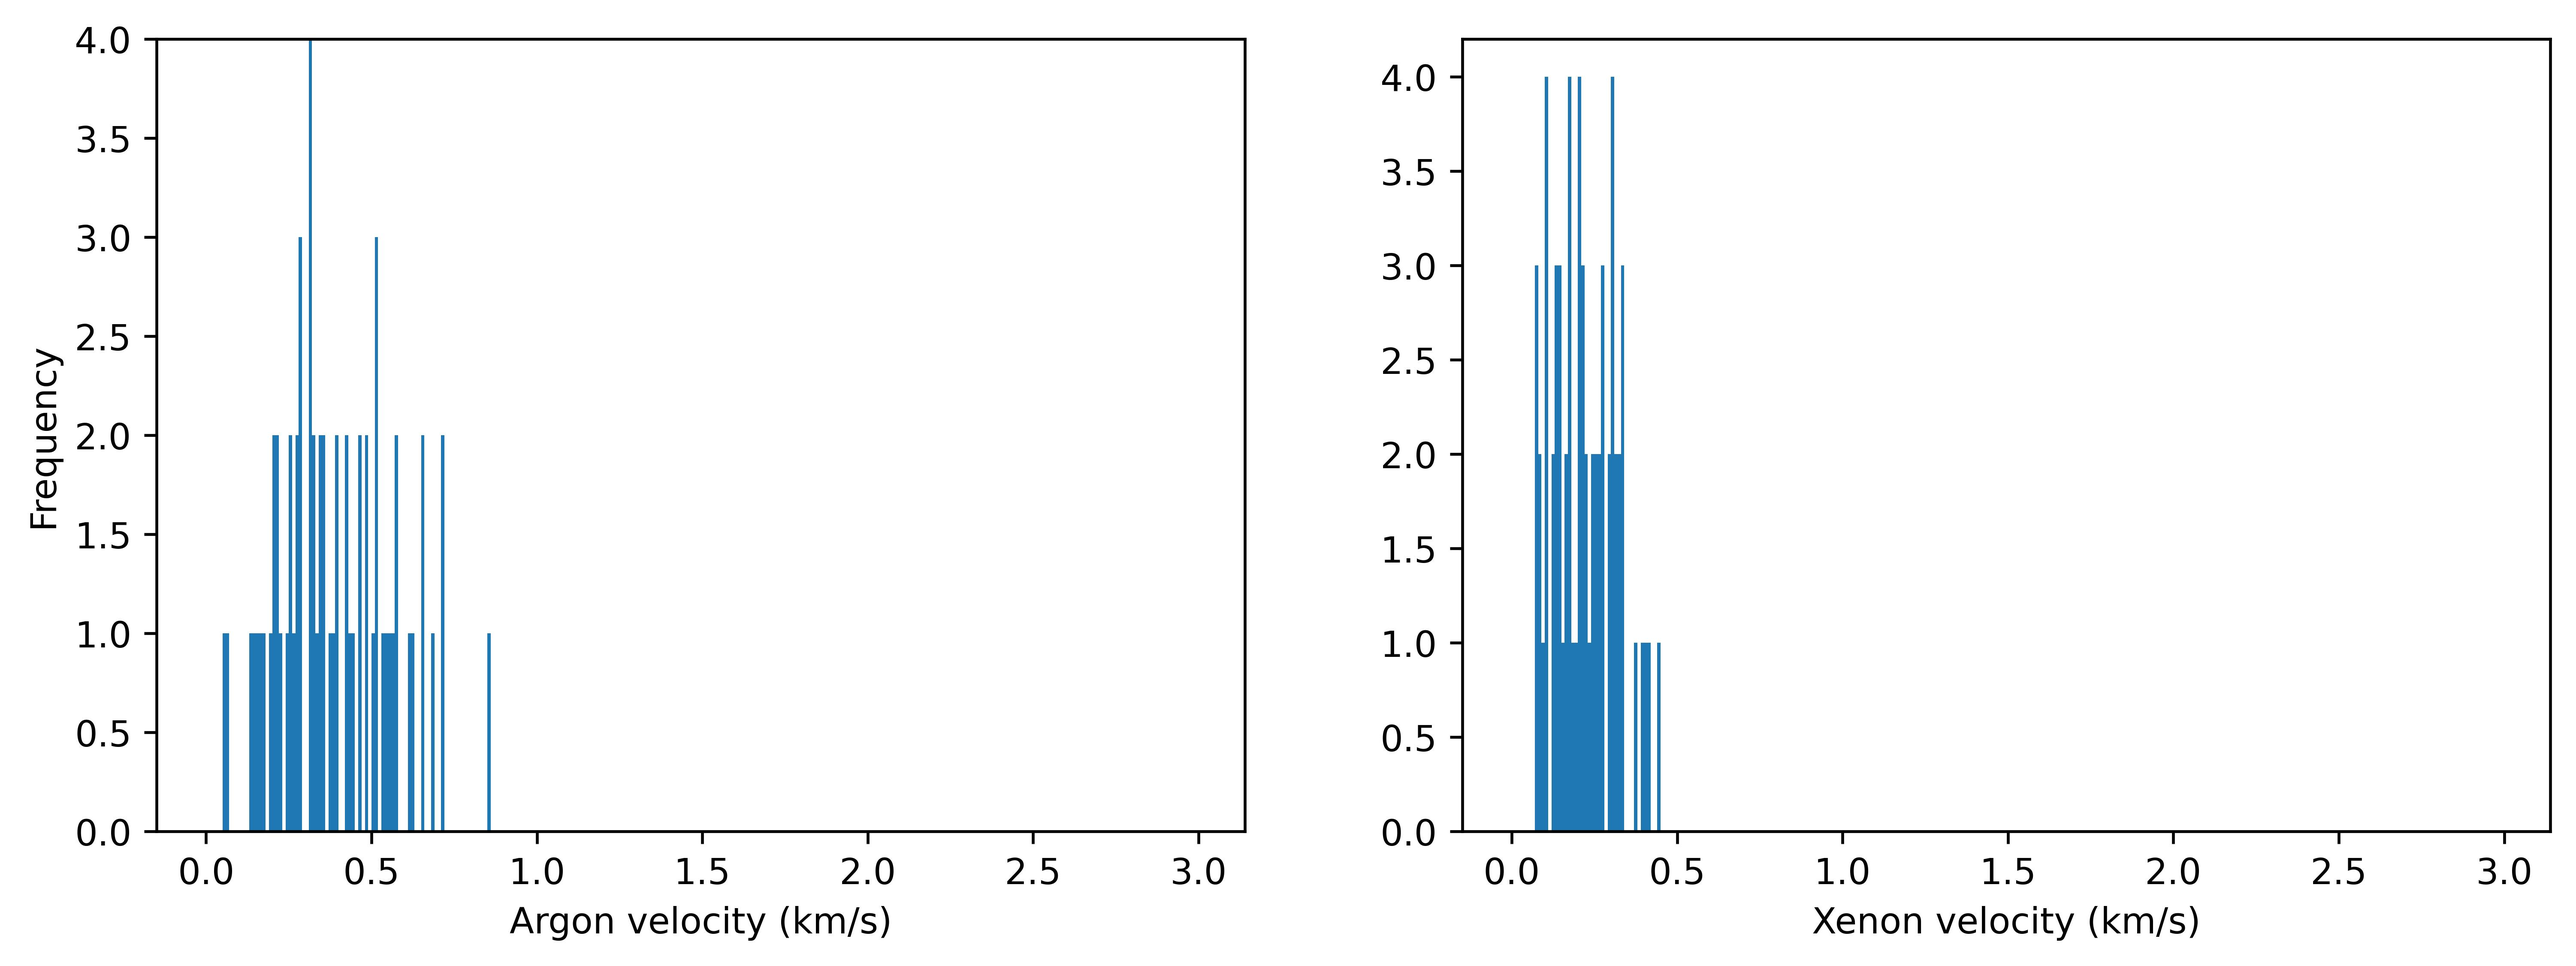
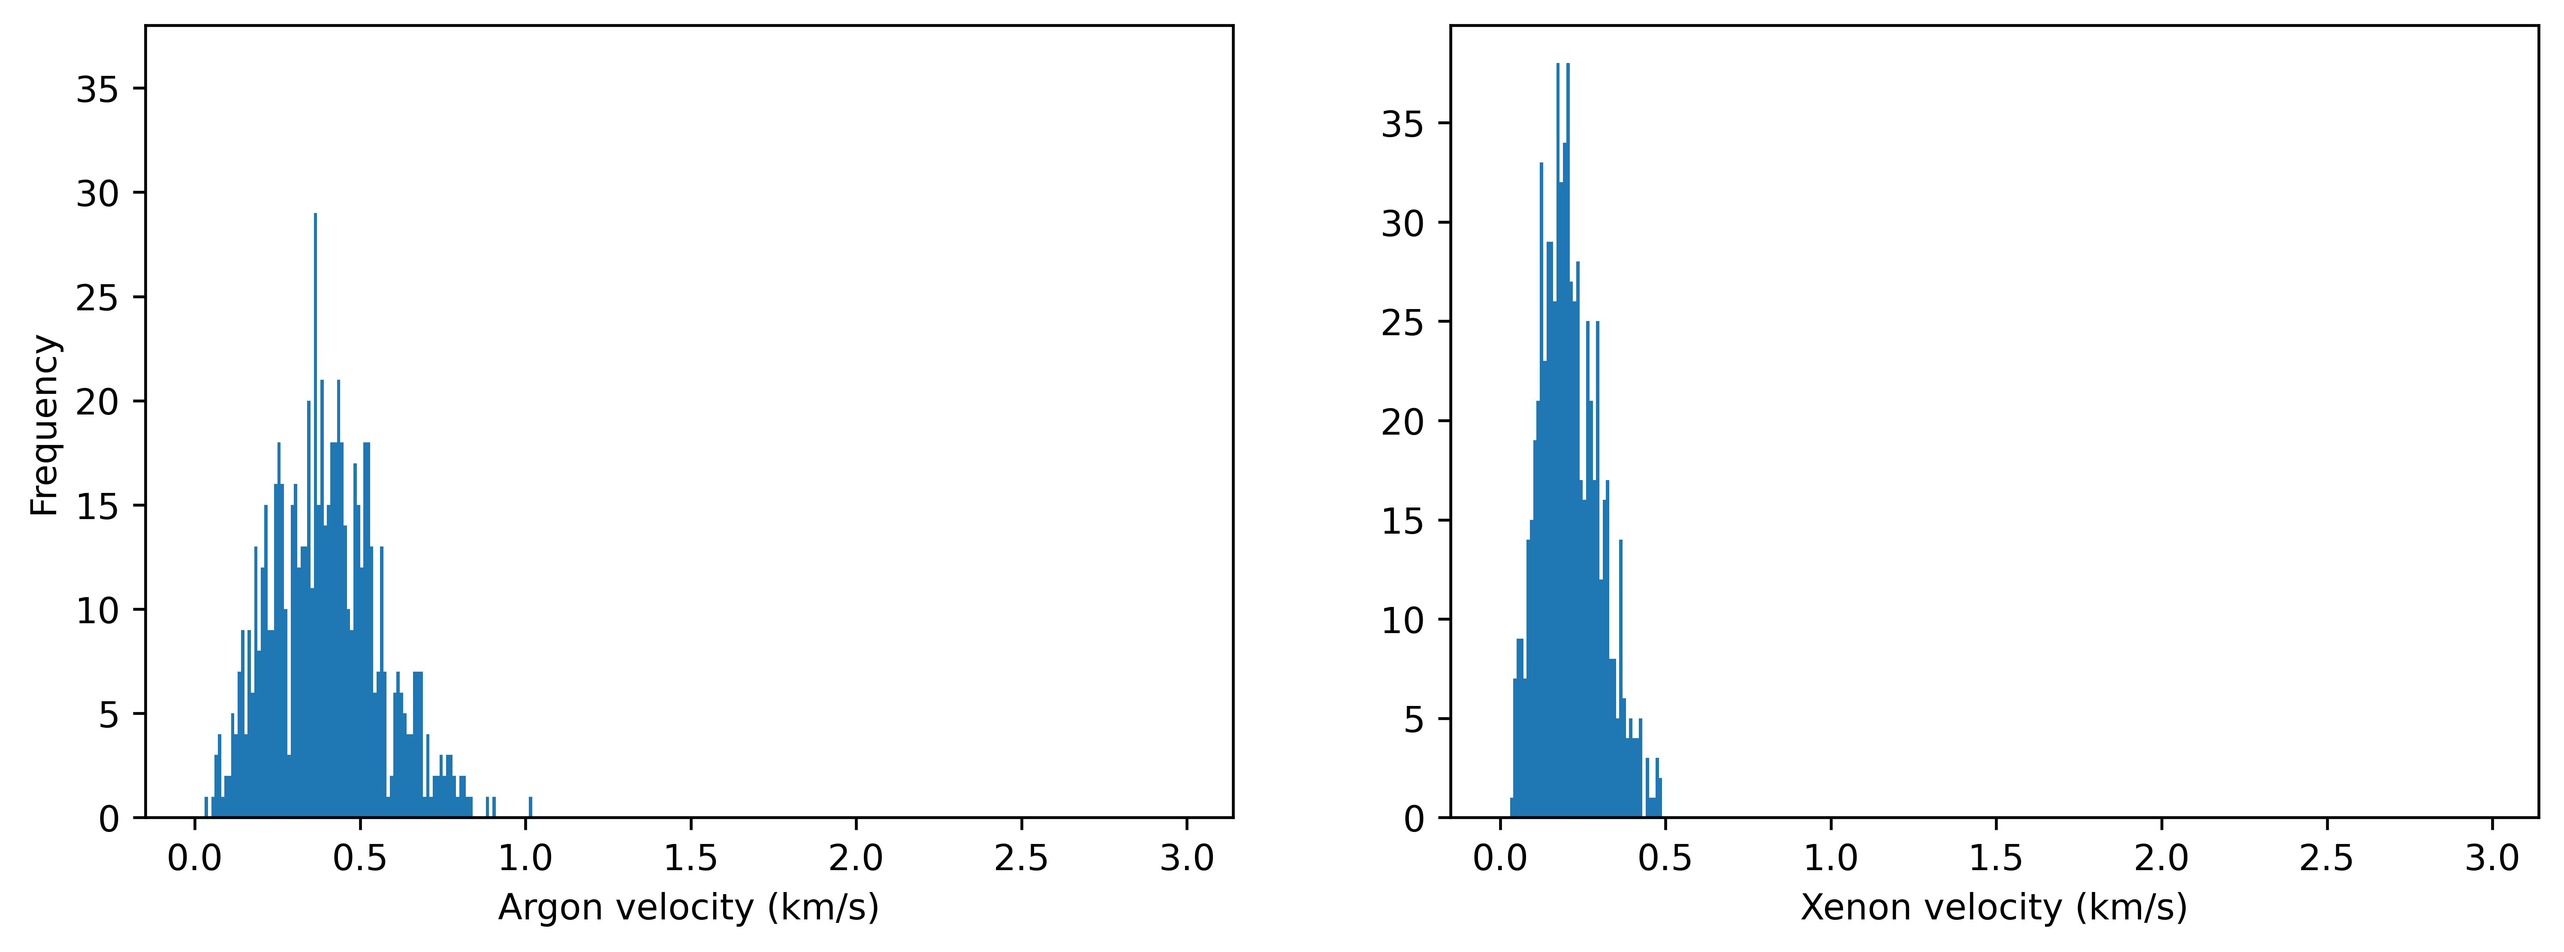
Jul 3 2024

diff --git a/src/analysis.py b/src/analysis.py
@@ -1,3 +1,6 @@
+import warnings
+warnings.filterwarnings('ignore')
+
 import os, sys
 from glob import glob
 import pickle
@@ -17,6 +20,7 @@ fig3, ax3 = plt.subplots(1,2,figsize = (12,4))
 ar_velocity_dist = []
 xe_velocity_dist = []
 
+file_list = []
 for file in glob(PICKLE_PATH):
 
     if os.path.isdir(file):
@@ -24,11 +28,26 @@ for file in glob(PICKLE_PATH):
     elif "note.txt" in file:
         continue
 
+    file_list.append(file)
+
+file_list =sorted(file_list)
+final_time = 0
+profilefile = None
+for file in file_list:
+
+    print(file)
+
     with open(file,"rb") as handle:
         result = pickle.load(handle)
 
     atoms = result["atoms"]
     Afield = result["field"]
+
+    total_energy = np.array(atoms.observable["kinetic"]) + np.array(atoms.observable["potential"]) \
+            + np.sum(Afield.history["energy"],axis = 1)
+
+    print(total_energy[0])
+    print(total_energy[1])
 
     time = np.array(atoms.observable["t"]) * red.time_unit * 1e12
 
@@ -46,8 +65,14 @@ for file in glob(PICKLE_PATH):
     total_dipole = np.array(atoms.observable["total_dipole"])
 
     rad_energy = np.array(Afield.history["energy"]) * red.epsilon * 6.242e11 
-    omega = Afield.k_val / red.sigma
-    omega_profile, rad_profile = profiling_rad(omega, rad_energy[-1])
+    if Afield.history["t"][-1] > final_time:
+
+        final_time = Afield.history["t"][-1]
+        profilefile = file
+
+        omega = Afield.k_val / red.sigma
+        omega /= 2*np.pi
+        omega_profile, rad_profile = profiling_rad(omega, rad_energy[-1])
 
     ax2.plot(time, total_dipole)
     ax2.set_ylabel("Total dipole")
@@ -55,6 +80,7 @@ for file in glob(PICKLE_PATH):
     ax1[0].plot(time, np.sum(rad_energy,axis=1))
     ax1[0].set_ylabel("Radiation energy (eV)")
 
+print(profilefile)
 n,_,_ = ax3[1].hist(xe_velocity_dist, bins = np.arange(0,3,0.01))
 ax3[0].hist(ar_velocity_dist, bins = np.arange(0,3,0.01))
 ax3[0].set_ylim(0, np.max(n))
@@ -63,8 +89,8 @@ ax3[0].set_xlabel("Argon velocity (km/s)")
 ax3[1].set_xlabel("Xenon velocity (km/s)")
 
 ax1[0].set_xlabel("Time (ps)")
-ax1[1].scatter(omega_profile, rad_profile)
-ax1[1].set_xlabel("Wavevector magnitude (cm^-1)")
+ax1[1].scatter(omega_profile, rad_profile, s = 10)
+ax1[1].set_xlabel("Wavenumber (cm^-1)")
 ax1[1].set_ylabel("Final energy (eV)")
 
 fig1.savefig("figure/full_simulation_radiation.jpeg",dpi = 600,bbox_inches="tight")

diff --git a/src/simulation_monte.py b/src/simulation_monte.py
@@ -12,7 +12,7 @@ from matter.atoms import AtomsInBox
 from matter.utils import AllInOneSampler
 
 from field.electromagnetic import FreeVectorPotential,CavityVectorPotential
-from field.utils import EM_mode_generate
+from field.utils import EM_mode_generate_,EM_mode_generate
 
 import utilities.reduced_parameter as red
 
@@ -25,7 +25,7 @@ L = 1e8
 cell_width = 1e4
 
 t = 0
-h = 1e-3
+h = 1e-2
 
 np.random.seed(2)
 
@@ -38,7 +38,8 @@ K_temp = 292
             ##########################
 
 k_vector = np.array(
-        EM_mode_generate(max_n = 25, min_n = 5, vector_per_kval = 3), 
+        EM_mode_generate_(
+            max_n = 1000, min_n = 1, n_vec_per_kz  = 1),
         dtype=np.float64)
 print(len(k_vector))
 
@@ -76,7 +77,7 @@ Afield = CavityVectorPotential(
             ### INITIATE ATOMS BOX ###
             ##########################
             ##########################
-N_atom_pairs = 64
+N_atom_pairs = 32
 
 def initiate_atoms_box():
     atoms = AtomsInBox(
@@ -94,7 +95,7 @@ def initiate_atoms_box():
         calculator_kwargs = {
             "epsilon": epsilon_mat, "sigma" : sigma_mat, 
             "positive_atom_idx" : idxXe, "negative_atom_idx" : idxAr,
-            "mu0" : red.mu0 * 1e3, "d" : red.d0, "a" : red.a
+            "mu0" : red.mu0 * 1e5, "d" : red.d0, "a" : red.a
         })
 
     return atoms
@@ -102,7 +103,7 @@ def initiate_atoms_box():
 #sampler for atoms configurations
 sampler = AllInOneSampler(
         N_atom_pairs=N_atom_pairs, angle_range=np.pi/4, L=L,
-        d_ar_xe=4,red_temp_unit=red.temp, K_temp=K_temp,
+        d_ar_xe=3,red_temp_unit=red.temp, K_temp=K_temp,
         ar_mass=red.mass_dict["Ar"], xe_mass=red.mass_dict["Xe"]
         )
 
@@ -129,7 +130,7 @@ for i in range(40):
     dipole_drop_flag = False
     potential_drop_flag = False
 
-    while not dipole_drop_flag or abs(dipole) > 1e-4:
+    while not dipole_drop_flag or abs(dipole) > 1e-3:
 
         em_force_func = lambda t, atoms: Afield.force(t,atoms)
 

diff --git a/src/field/utils.py b/src/field/utils.py
@@ -106,6 +106,25 @@ def EM_mode_generate(
 
     return np.vstack(modes_list)
 
+def EM_mode_generate_(max_n, n_vec_per_kz = 1, min_n = 1):
+    modes_list = []
+    for i in range(min_n, max_n + 1):
+        sample_range = np.arange(1,i + 1)
+        if n_vec_per_kz < len(sample_range):
+            ky = np.random.choice(
+                    sample_range, size = n_vec_per_kz - 1, 
+                    replace = False)
+            ky = np.hstack([[0], ky])
+        else: ky = sample_range
+
+        kz = np.array([i] * len(ky)).reshape(-1,1)
+        ky = ky.reshape(-1,1)
+        kx = np.zeros(ky.shape)
+
+        mode_vector = np.hstack([kx,ky,kz])
+        modes_list.append(mode_vector)
+    return np.vstack(modes_list)
+
 def profiling_rad(omega_list,Hrad):
 
     unique_omega = list(set(omega_list))
